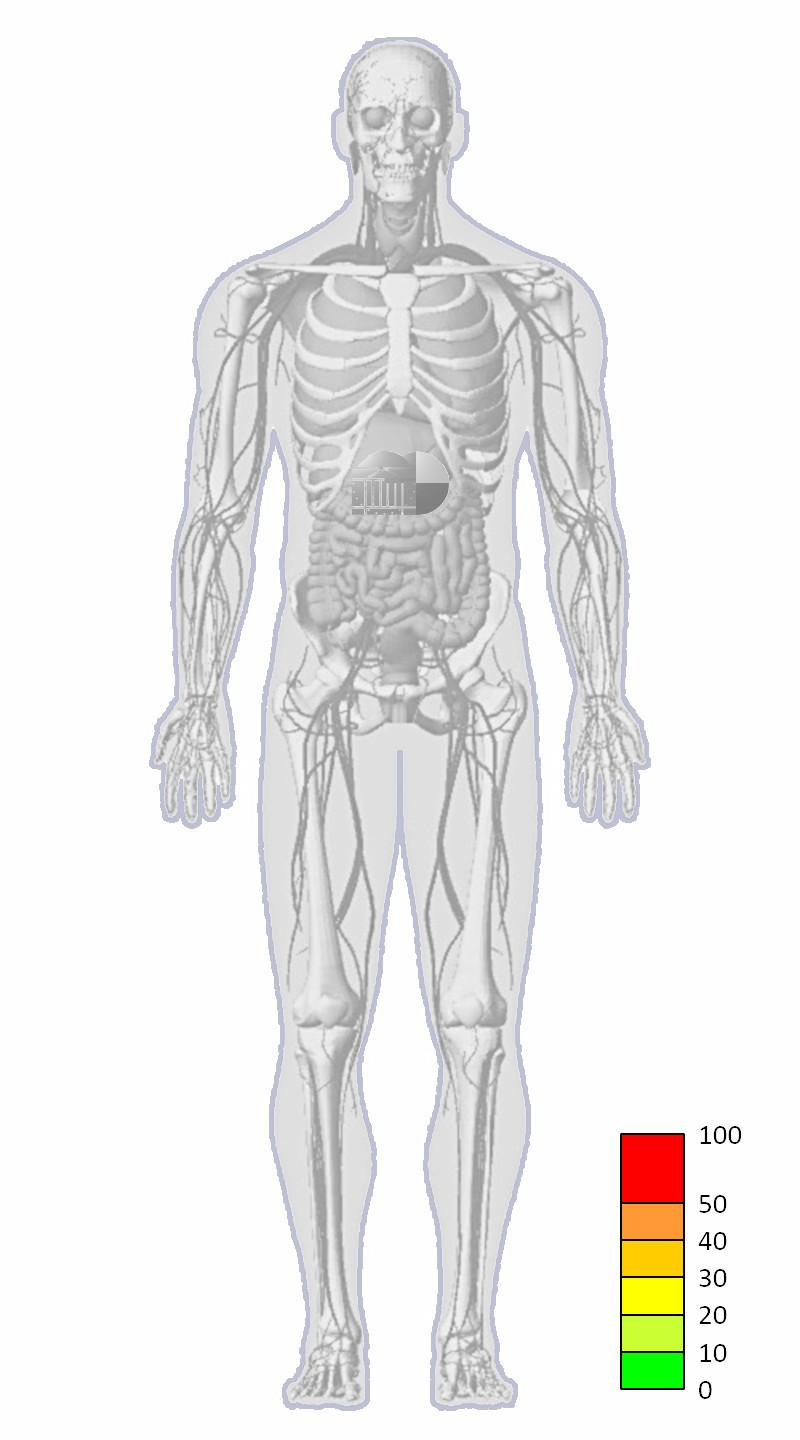
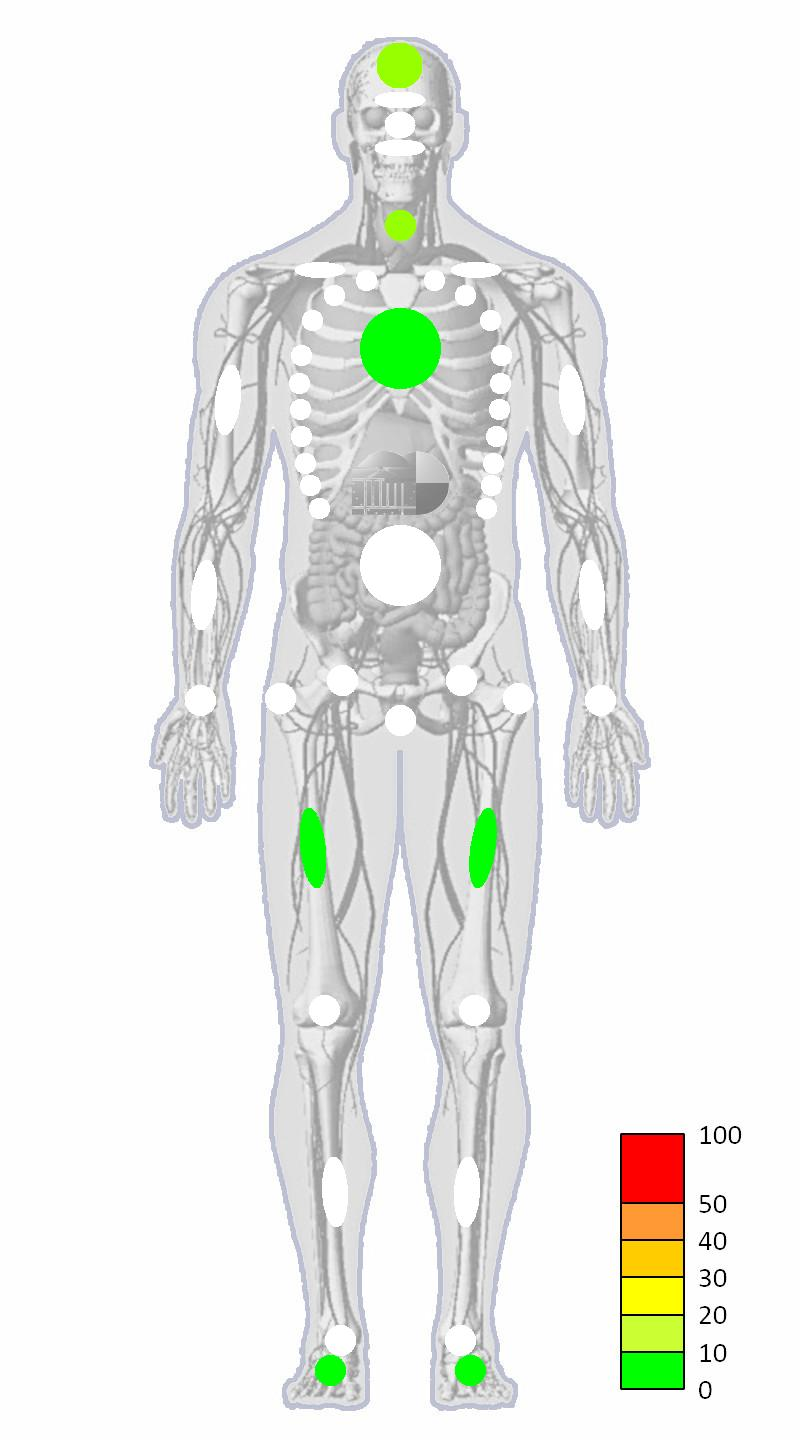
Added PIL image editing, Verifying existing functions

diff --git a/main.py b/main.py
@@ -1,10 +1,13 @@
 from PIL import Image,ImageDraw
 import pandas as pd
-from colorPicker import colorPicker
+from colorPicker import *
 from linkTables import *
+from drawShapes import *
 
-coord = pd.read_excel('coord.xlsx')
-simData = pd.read_excel('simulation_results/Guardrail_injury_analysis.xlsx', sheet_name=0, header=None, names=['Name', 'Fill', 'Prob'])
+coordCirc = pd.read_excel('coord.xlsx',sheet_name=0)
+coordEll = pd.read_excel('coord.xlsx',sheet_name=1)
+
+simData = pd.read_excel('simulation_results/Guardrail_injury_analysis.xlsx', sheet_name=1, header=None, names=['Name', 'Fill', 'Prob'])
 
 numrows = simData.shape[0]
 
@@ -22,14 +25,21 @@ else:
     exit(1)
 
 
-coord['NewName'] = coord.apply(getName,axis=1,args=(simData,))
-coord['Prob'] = coord.apply(getProb,axis=1,args=(simData,))
+coordCirc['NewName'] = coordCirc.apply(getName, axis=1, args=(simData,case))
+coordCirc['Prob'] = coordCirc.apply(getProb, axis=1, args=(simData,))
+#coordCirc['Color'] = coordCirc.apply(colorPicker, axis=1)
 
-#coord['Color'] = coord.loc[:, 'Prob'].map(colorPicker)
+coordEll['NewName'] = coordEll.apply(getName, axis=1, args=(simData,case))
+coordEll['Prob'] = coordEll.apply(getProb, axis=1, args=(simData,))
+#coordEll['Color'] = coordEll.apply(colorPicker, axis=1)
 
-print(coord)
+print(coordCirc)
+print(coordEll)
 
-#im = Image.open('ciss_human_driver_legend_CAB.jpg')
-
-#im.save('pepega.jpg')
+#
+# with Image.open('ciss_human_driver_legend_CAB.jpg') as im:
+#     drawer = ImageDraw.Draw(im)
+#     coordCirc.apply(drawCircle,axis=1,args=(drawer,))
+#     coordEll.apply(drawEllipse,axis=1,args=(drawer,))
+#     im.save('pepega.jpg')
 

diff --git a/linkTables.py b/linkTables.py
@@ -1,17 +1,34 @@
-def getName(row,simData):
+
+def chooseFromTwo(twoT):
+    if twoT.iloc[0].Prob > twoT.iloc[1].Prob:
+        return twoT.iloc[0].Name
+    else:
+        return twoT.iloc[1].Name
+
+def getName(row, simData, case):
     bodypart = row['BodyPart']
+
     if bodypart == 'Head':
         one = simData[simData.Name.str.contains('(?:HIC36|BrIC MPS) \(AIS 2\+\)')]
-        if one.iloc[0].Prob > one.iloc[1].Prob:
-            bleh = one.iloc[0].Name
-        else:
-            bleh = one.iloc[1].Name
+        newname = chooseFromTwo(one)
+    elif bodypart == 'Thorax' and case >= 2:
+        one = simData[simData.Name.str.contains('Thorax (?:Rmax|PCA) \(AIS 3\+\)')]
+        newname = chooseFromTwo(one)
+
+    elif bodypart == 'Tibia Right' and case < 4:
+        one = simData[simData.Name.str.contains('Tibia (?:RTI|Proximal) Right \(AIS 2\+\)')]
+        newname = chooseFromTwo(one)
+
+    elif bodypart == 'Tibia Left' and case < 4:
+        one = simData[simData.Name.str.contains('Tibia (?:RTI|Proximal) Left \(AIS 2\+\)')]
+        newname = chooseFromTwo(one)
+
     else:
         foundAny = simData.Name.str.contains(bodypart)
         if not foundAny.any():
             return "Not Found"
-        bleh = simData[foundAny].iloc[0].Name
-    return bleh
+        newname = simData[foundAny].iloc[0].Name
+    return newname
 
 
 def getProb(row,simData):

diff --git a/drawShapes.py b/drawShapes.py
@@ -1,0 +1,32 @@
+import numpy as np
+import math
+
+def drawCircle(row,drawer):
+    center = (row['X'],row['Y'])
+    r = row['R']
+    color = row['Color']
+
+    box = (center[0] - r, center[1] - r, center[0] + r, center[1] + r)
+    drawer.ellipse(box, fill=color, outline=color)
+
+    return
+
+
+def drawEllipse(row, drawer):
+    a = row['A']
+    b = row['B']
+    xSh = row['xSh']
+    ySh = row['ySh']
+    theta = row['theta']
+    precision = 200
+    color = row['Color']
+    t = np.linspace(0, 2*math.pi, precision)
+    ell = []
+
+    for i in np.arange(precision):
+        x = a * math.cos(t[i]) * math.cos(math.radians(theta)) - b * math.sin(t[i]) * math.sin(math.radians(theta)) + xSh
+        y = a * math.cos(t[i]) * math.sin(math.radians(theta)) - b * math.sin(t[i]) * math.cos(math.radians(theta)) + ySh
+
+        ell.append((x, y))
+    drawer.polygon(ell, fill=color, outline=color)
+    return

diff --git a/colorPicker.py b/colorPicker.py
@@ -1,26 +1,24 @@
-import numpy as np
-
-def colorPicker(prob):
-    rgb = np.array([])
+def colorPicker(row):
+    prob = row['Prob']
     # White
     if prob < 0:
-        rgb = np.array([255, 255, 255])
+        rgb =(255, 255, 255)
     # Green
     elif 0 <= prob < 10:
-        rgb = np.array([0, 255, 0])
+        rgb = (0, 255, 0)
     # Light Green
     elif 10 <= prob < 20:
-        rgb = np.array([150, 255, 0])
+        rgb = (150, 255, 0)
     # Yellow
     elif 20 <= prob < 30:
-        rgb = np.array([255, 255, 0])
+        rgb = (255, 255, 0)
     # Orange Yellow
     elif 30 <= prob < 40:
-        rgb = np.array([255, 190, 0])
+        rgb = (255, 190, 0)
     # Orange
     elif 40 <= prob < 50:
-        rgb = np.array([255, 255/2, 0])
+        rgb = (255, 255/2, 0)
     # red
     elif 50 <= prob <= 100:
-        rgb = np.array([255, 0, 0])
+        rgb = (255, 0, 0)
     return rgb
